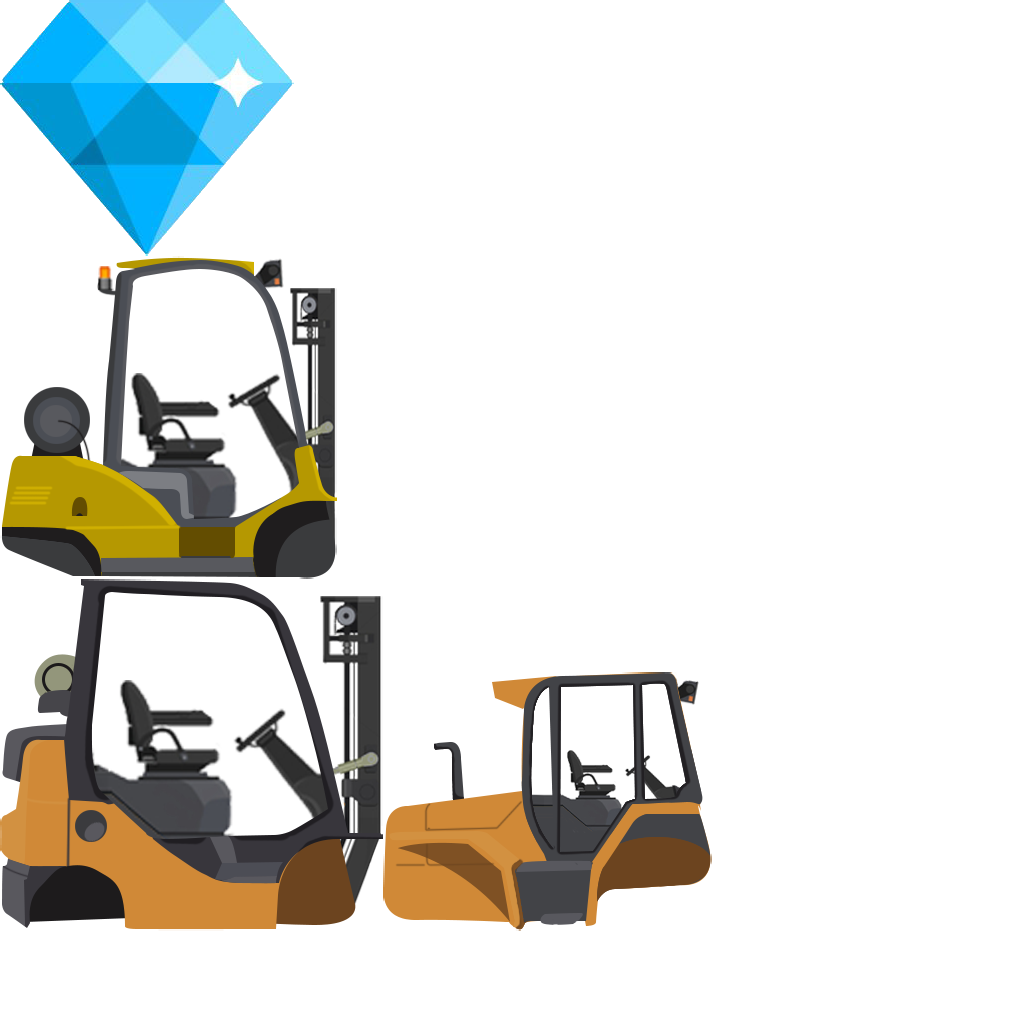
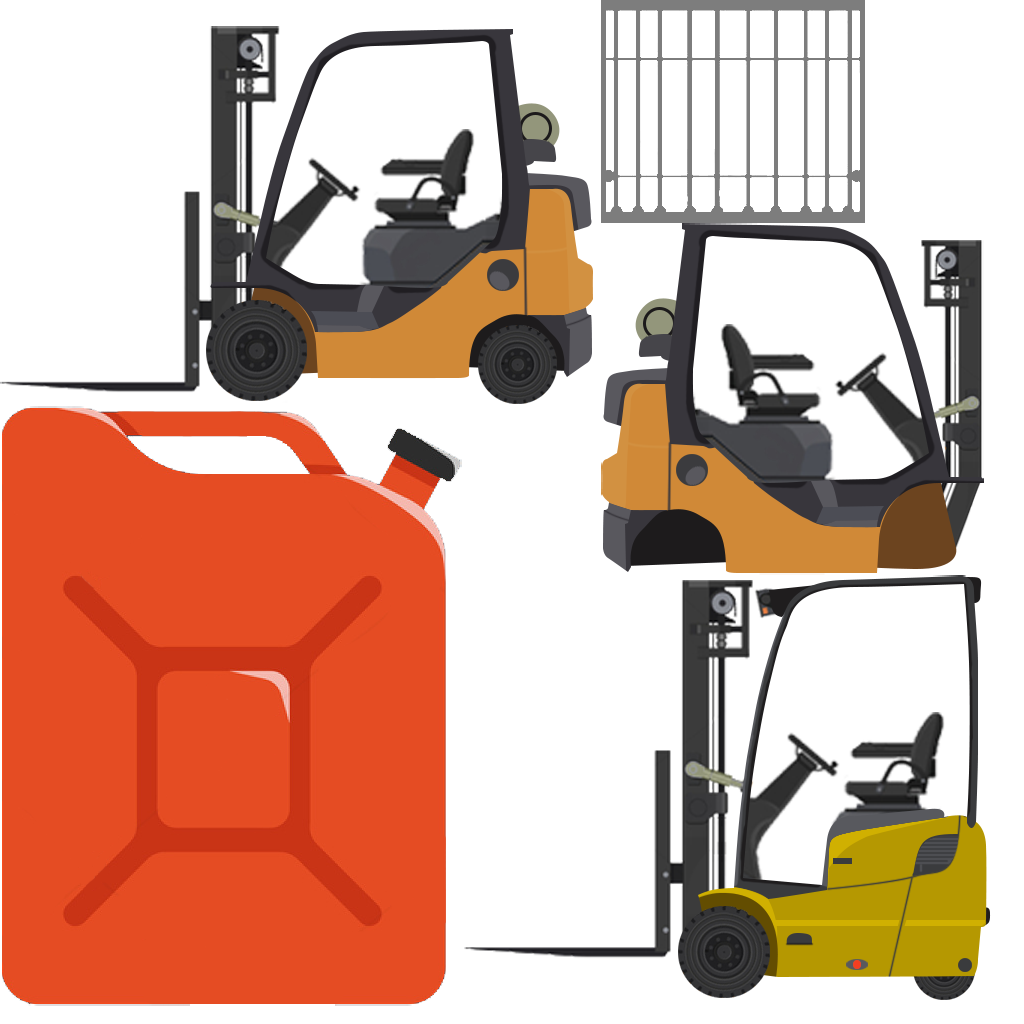
Textures fixed

diff --git a/core/src/com/mygdx/forkliftaone/ForkliftModel.java b/core/src/com/mygdx/forkliftaone/ForkliftModel.java
@@ -387,14 +387,14 @@ public class ForkliftModel {
         switch (fd.getName()) {
             case MODEL_1:
                 // Textures
-                forkliftRegion = atlas.findRegion(RegionNames.MODEL_1);
+                forkliftRegion = atlas.findRegion(RegionNames.MODEL_1_WHEELS);
                 wheelRegion = atlas.findRegion(RegionNames.FORKLIFT_WHEEL);
                 forkRegion = atlas.findRegion(RegionNames.FORK_TEXTURE);
                 break;
 
             case MODEL_4:
                 // Textures
-                forkliftRegion = atlas.findRegion(RegionNames.MODEL_4);
+                forkliftRegion = atlas.findRegion(RegionNames.MODEL_4_WHEELS);
                 wheelRegion = atlas.findRegion(RegionNames.FORKLIFT_WHEEL);
                 forkRegion = atlas.findRegion(RegionNames.FORK_TEXTURE);
 
@@ -402,7 +402,7 @@ public class ForkliftModel {
 
             case MODEL_9:
                 // Textures
-                forkliftRegion = atlas.findRegion(RegionNames.MODEL_9);
+                forkliftRegion = atlas.findRegion(RegionNames.MODEL_9_WHEELS);
                 wheelRegion = atlas.findRegion(RegionNames.FORKLIFT_WHEEL);
                 forkRegion = atlas.findRegion(RegionNames.FORK_TEXTURE);
 
@@ -410,7 +410,7 @@ public class ForkliftModel {
 
             case MODEL_10:
                 // Textures
-                forkliftRegion = atlas.findRegion(RegionNames.MODEL_10);
+                forkliftRegion = atlas.findRegion(RegionNames.MODEL_10_WHEELS);
                 wheelRegion = atlas.findRegion(RegionNames.FORKLIFT_WHEEL);
                 forkRegion = atlas.findRegion(RegionNames.FORK_TEXTURE);
 
@@ -418,7 +418,7 @@ public class ForkliftModel {
 
             case MODEL_11:
                 // Textures
-                forkliftRegion = atlas.findRegion(RegionNames.MODEL_11);
+                forkliftRegion = atlas.findRegion(RegionNames.MODEL_11_WHEELS);
                 wheelRegion = atlas.findRegion(RegionNames.FORKLIFT_WHEEL);
                 forkRegion = atlas.findRegion(RegionNames.FORK_TEXTURE);
 
@@ -426,7 +426,7 @@ public class ForkliftModel {
 
             case MODEL_12:
                 // Textures
-                forkliftRegion = atlas.findRegion(RegionNames.MODEL_12);
+                forkliftRegion = atlas.findRegion(RegionNames.MODEL_12_WHEELS);
                 wheelRegion = atlas.findRegion(RegionNames.FORKLIFT_WHEEL);
                 forkRegion = atlas.findRegion(RegionNames.FORK_TEXTURE);
 
@@ -434,7 +434,7 @@ public class ForkliftModel {
 
             case MODEL_5:
                 // Textures
-                forkliftRegion = atlas.findRegion(RegionNames.MODEL_5);
+                forkliftRegion = atlas.findRegion(RegionNames.MODEL_5_WHEELS);
                 wheelRegion = atlas.findRegion(RegionNames.FORKLIFT_WHEEL);
                 forkRegion = atlas.findRegion(RegionNames.FORK_TEXTURE);
 

diff --git a/core/src/com/mygdx/forkliftaone/utils/RegionNames.java b/core/src/com/mygdx/forkliftaone/utils/RegionNames.java
@@ -12,6 +12,14 @@ public class RegionNames {
     public static final String MODEL_11 = "ModelEleven";
     public static final String MODEL_12 = "ModelTwelve";
 
+    public static final String MODEL_1_WHEELS = "model1Wheels";
+    public static final String MODEL_4_WHEELS = "model4Wheels";
+    public static final String MODEL_5_WHEELS = "model5Wheels";
+    public static final String MODEL_9_WHEELS = "model9Wheels";
+    public static final String MODEL_10_WHEELS = "model10Wheels";
+    public static final String MODEL_11_WHEELS = "model11Wheels";
+    public static final String MODEL_12_WHEELS = "model12Wheels";
+
     public static final String TRUCK_ONE = "SmallTruck";
 
     //    public static final String DOOR = "door";

diff --git a/core/src/com/mygdx/forkliftaone/screens/game/ChoosingScreen.java b/core/src/com/mygdx/forkliftaone/screens/game/ChoosingScreen.java
@@ -136,7 +136,8 @@ public class ChoosingScreen extends ScreenAdapter {
 //        stage.addActor(map);
         uiStage.addActor(map);
 
-        model = new ForkliftModel(forkliftData, map, gamePlayAtlas);
+//        model = new ForkliftModel(forkliftData, map, gamePlayAtlas);
+        model = new ForkliftModel(forkliftData, gamePlayAtlas);
 
         b2dr = new Box2DDebugRenderer();
         uiStage.addActor(createUi());

diff --git a/core/src/com/mygdx/forkliftaone/screens/market/MapMarketScreen.java b/core/src/com/mygdx/forkliftaone/screens/market/MapMarketScreen.java
@@ -113,7 +113,7 @@ public class MapMarketScreen extends ScreenAdapter {
         } else {
             mapModel = new MapModel(unpurchasedMaps.get(mapCounter).getName(), gamePlayAtlas);
         }
-        backgroundPlaceholder = gamePlayAtlas.findRegion(RegionNames.FORKLIFT_WHEEL);
+        backgroundPlaceholder = gamePlayAtlas.findRegion(RegionNames.TEST_BACKGROUND);
         Gdx.input.setInputProcessor(stage);
 
     }

diff --git a/core/src/com/mygdx/forkliftaone/screens/market/ForkliftMarketScreen.java b/core/src/com/mygdx/forkliftaone/screens/market/ForkliftMarketScreen.java
@@ -117,7 +117,7 @@ public class ForkliftMarketScreen extends ScreenAdapter {
             model = new ForkliftModel(unpurchasedForklifts.get(counter), gamePlayAtlas);
         }
 
-        backgroundPlaceholder = gamePlayAtlas.findRegion(RegionNames.FORKLIFT_WHEEL);
+        backgroundPlaceholder = gamePlayAtlas.findRegion(RegionNames.TEST_BACKGROUND);
         Gdx.input.setInputProcessor(stage);
 
     }
